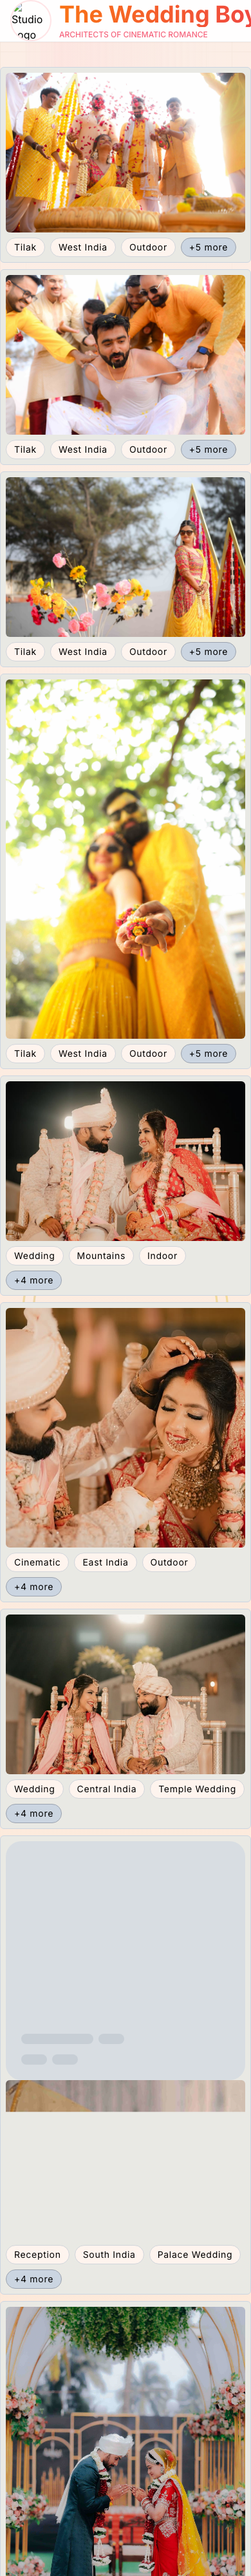
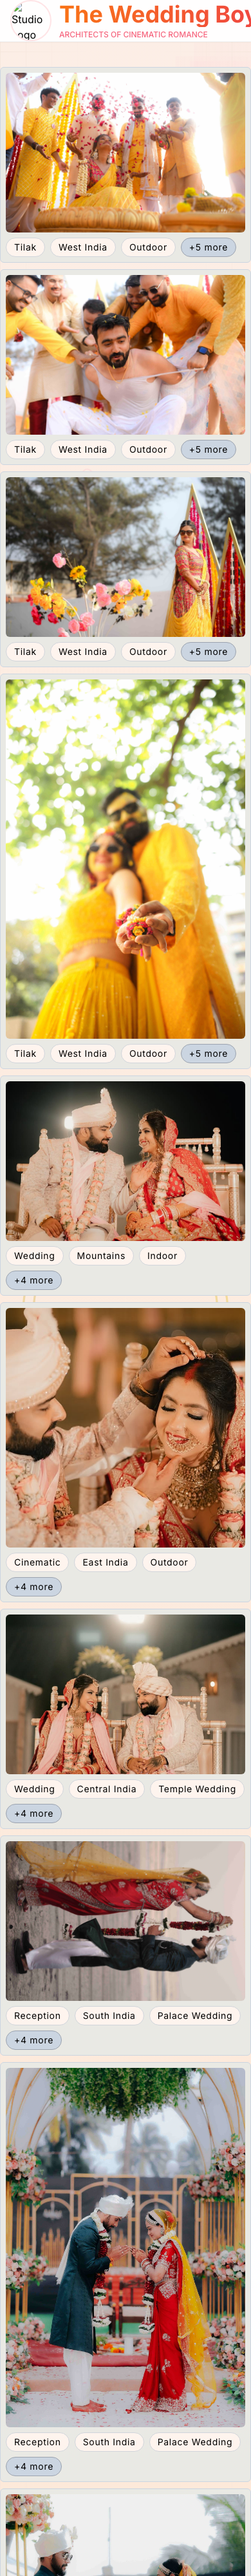
audit: executive summary
70 defects (14 Critical). The thesis in one number: the studio.* design
system is referenced 29 times by the public site against 511 hard-coded
hex values, while the out-of-scope blog uses it 286 times.

Changed region(s): [[0.0, 0.6875, 0.9846, 1.0]]

diff --git a/audit/00-EXECUTIVE-SUMMARY.md b/audit/00-EXECUTIVE-SUMMARY.md
@@ -1,0 +1,172 @@
+# 00 — Executive Summary
+
+**The Wedding Boys · public site · Phase 1 forensic audit**
+
+11 public pages swept at four viewports in a real browser. 14,838 element
+observations of **computed** styles. Performance measured separately against a
+production build with a cold cache. **70 defects: 14 Critical, 27 High, 24
+Medium, 5 Low.**
+
+---
+
+## What the site intends to communicate, and what it currently communicates
+
+**Intended:** an ultra-luxury destination-wedding studio — the kind of practice
+a couple flies to Udaipur for, and a planner stakes their reputation on
+recommending.
+
+**Actual:** a capable Mumbai studio whose website was assembled page by page by
+different hands over a long period, and never edited as a whole. The
+photography is strong. Everything framing it disagrees with itself.
+
+The evidence for that sentence is not impressionistic. A design system exists in
+`tailwind.config.js` — a complete `studio.*` palette. The public site references
+it **29 times** and hard-codes arbitrary hex **511 times**. Tokens govern
+**5.4%** of colour decisions. The same config is used **286 times** by the blog
+subsystem, which is out of scope here and was rebuilt recently. The gap between
+those two numbers is the whole finding: this is not a site without a system, it
+is a system that was never applied to the pages customers actually see.
+
+---
+
+## The ten that do the most damage
+
+**1. The enquiry form silently discards invalid submissions.**
+`ContactClient.jsx:189` — one `if` with no `else`. A missing field or a mistyped
+email produces no message, no highlight, nothing. The button looks broken. The
+entire funnel ends here. *(R-01)*
+
+**2. The form also cannot be submitted by keyboard, and rejects every
+international phone number.** `type="button"` with no `onSubmit`, so Enter does
+nothing; `/^[0-9]{10}$/` rejects all country codes — on a site advertising
+"worldwide destinations". *(R-02, R-03)*
+
+**3. Three of the four primary navigation items are dead on 13 of 14 pages.**
+`Pricing`, `Process` and `Services` are `#fragment` links whose targets exist
+only on the home page. Everywhere else, clicking them does nothing. *(R-07)*
+
+**4. The header and footer describe two different companies.** Masthead:
+"Mumbai's premier wedding filmmakers." Footer, every page: "India's premier
+wedding cinematography studio … worldwide destinations." Home pricing: "We cover
+all locations in Mumbai at no extra cost. **Additional charges apply for
+destination weddings.**" A destination client reads all three on one scroll.
+*(R-08)*
+
+**5. White text sits on photographs with no scrim — measured 1.0:1.** Five
+elements, including `/team`'s own `<h1>` "Meet Our Visionaries" and both
+founders' names on `/about-us`. On `/about-us` the scrim **was written and then
+commented out** (`AboutClient.jsx:105`), replaced by a peach gradient that fades
+*downward* and protects nothing where the text is. *(R-06, R-21)*
+
+**6. Both site-wide CTAs fail contrast on all 11 pages.** "Subscribe" and
+"Inquire for Your Date": white on `#FF5353` = **3.17:1**. The two brand reds are
+mathematically incapable of carrying white text at this size — `#FF6969` on white
+is 2.81:1 — so every CTA inherits an impossible pairing. *(R-05)*
+
+**7. The films portfolio miscategorises its own work.** The "Beach" category
+contains **Varanasi** and **Solapur** — both landlocked. Zero of two correct.
+"North India" is two of four. The same two films appear four times. For a studio
+whose product is *place*, this is the most quietly disqualifying content on the
+site. *(R-12, R-27)*
+
+**8. `/varanasi` ships 24.3 MB.** 23.5 MB of images across 250 requests — a
+214-frame scroll sequence at ~230 KB each, plus 6 MB in three PNGs. Measured on a
+production build with a cold cache. It is also the page the home page pushes
+hardest. *(R-09)*
+
+**9. The gallery's only heading is "YOU HAVE REACH THE END !"** `/photos` has no
+`<h1>`. Its single content heading is the infinite-scroll terminator — a
+grammatical error, in caps, with a space before the exclamation mark, marked up
+as an `<h2>`. `/photos/[id]` and `/search-result` also have no `<h1>`. *(R-13,
+R-35, R-43)*
+
+**10. Nothing looks like anything else.** 136 buttons render **35** distinct
+treatments; 123 cards render **24**. The site draws **176 colour values, 37 font
+sizes, 132 line-heights, 41 spacing values and 25 container widths**. On
+`/photos`, a single tag row contains two different chip designs — warm cream tags
+beside a slate-grey "+5 more". *(R-15 – R-20)*
+
+---
+
+## The three that most damage luxury positioning specifically
+
+1. **The positioning contradiction (R-08).** Luxury is a promise of certainty.
+   A studio that cannot state which market it serves has already lost the
+   destination client.
+2. **White-on-white text (R-06).** Not a subtle contrast miss — the page heading
+   of `/team` is invisible against a pale photograph. Nothing says "nobody
+   checked" more loudly.
+3. **The miscategorised portfolio (R-12).** Calling Varanasi a beach is the
+   single detail most likely to be noticed by exactly the planner whose
+   recommendation matters most.
+
+---
+
+## What is already good
+
+Worth stating, because Phase 2 should not break it.
+
+- **Alt text: 0 images missing `alt`** across all 11 pages.
+- **Zero horizontal overflow** at 390 / 768 / 1440 / 1920 on every page. The
+  responsive grid work is sound.
+- **Skeleton coverage is broad** — 12 components. They are the wrong colour, not
+  absent.
+- **Font weights** are the one coherent token axis (6 values).
+- **`/weddings/[city]`** is built to a visibly higher standard — the only page
+  with a `<header>` landmark, and the only one using the warm `studio.border`
+  token. It shows the baseline is achievable.
+- **`/varanasi`**, despite weighing 24 MB, is the most confidently art-directed
+  page on the site. It is a different design system, but it is *a* design system.
+
+---
+
+## Recommended stage ordering for Phase 2
+
+**Stage 1 — Stop losing enquiries and stop lying (days, not weeks).**
+R-01 R-02 R-03 R-04 R-07 R-08 R-12 R-13 R-22 R-23 R-24 R-27 R-34 R-35 R-39 R-51
+R-52 R-53 R-64.
+Almost all **S** effort. Fixing the form, the dead navigation, the positioning
+copy and the taxonomy costs little and removes every defect that actively loses
+business.
+
+**Stage 2 — Establish the design system and fix accessibility (the main work).**
+R-05 R-06 R-11 R-15 – R-21 R-25 R-26 R-28 – R-33 R-41 R-42 – R-47 R-49 R-50
+R-54 R-55 R-57 R-58 R-59 R-62 R-63 R-65 – R-70.
+One coral, one gold, a warm neutral ramp, a real type scale, a section-spacing
+scale, a designed focus state, and one button / card / chip / input each. The
+`studio.*` palette already exists — Stage 2 is largely *adoption*, not invention.
+
+**Stage 3 — Performance and motion.**
+R-09 R-10 R-14 R-36 R-37 R-38 R-40 R-48 R-56 R-61.
+Led by `cloudflareLoader.js:30`, which disables optimisation for every local
+asset and is the root cause of images served at up to **18.9×** their displayed
+size. Then the 24 MB Varanasi page, the footer-driven CLS, and reduced-motion
+gating for 46 infinite animations.
+
+**Sequencing note.** Stage 1 is deliberately unglamorous and should not wait for
+Stage 2. A visitor who cannot submit the form is not helped by a better colour
+palette.
+
+---
+
+## Method, and its limits
+
+- **Computed styles, not source.** Every value was read from the rendered DOM.
+- **Performance from a production build only**, cold cache, observer installed
+  pre-navigation. Dev-server numbers are not production-representative and are
+  labelled where used.
+- **No Lighthouse scores** — not installed. Core Web Vitals were measured
+  directly instead, which is closer to the truth than a synthetic score.
+- **Four findings in the brief were investigated and found not to be defects**
+  — the "N" badge (dev-only), "broken images" (a harness false positive; the site
+  has none), the home page's grey blocks (lazy-load pop-in), and the About
+  timeline (renders correctly). Recorded as X-01 – X-05 in the register rather
+  than quietly dropped.
+- **Two measurement corrections** were made mid-audit and are documented in
+  `06-PERFORMANCE.md`: a warm cache, and a missing LCP observer.
+- **Three claims cannot be audited and are flagged for the client** (F-01 – F-03),
+  including "Join 12,000 discerning couples".
+- **One page type in scope was missing from the brief**: `/weddings/[city]`,
+  seven live indexed pages linked from the footer.
+
+Reproduce with `node audit/_tools/capture.mjs`, `analyze.mjs`, `perf.mjs`.
